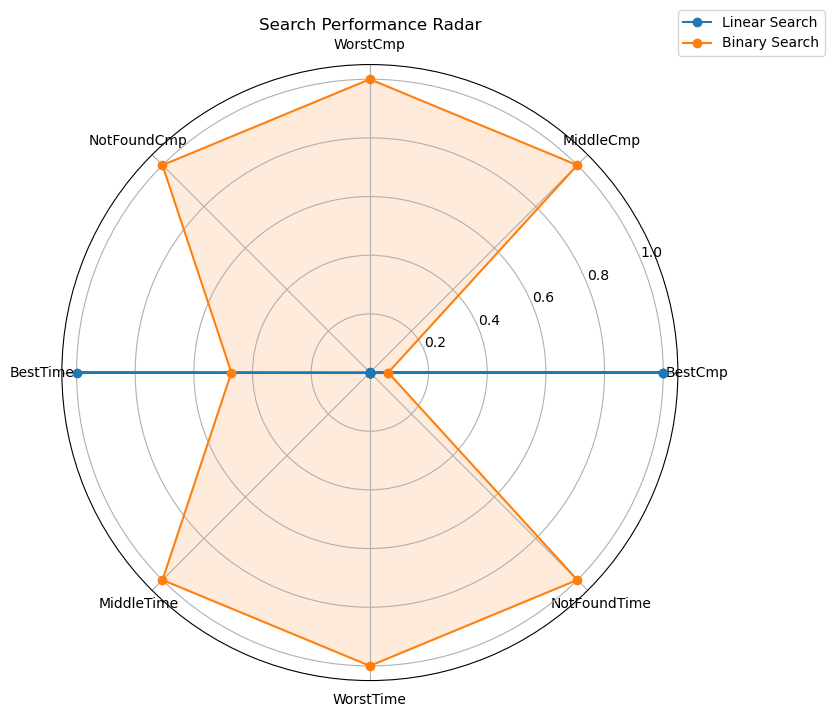
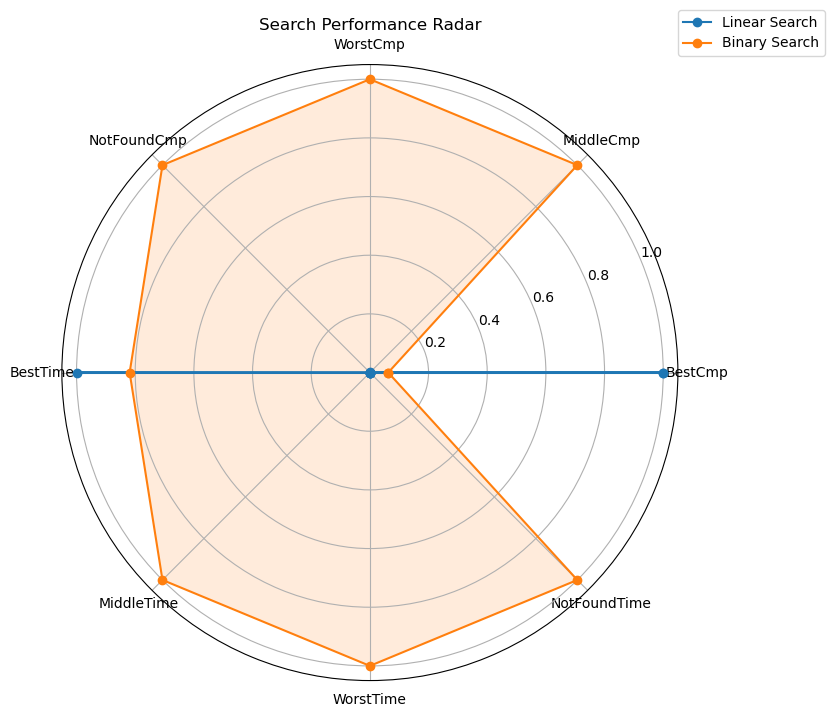
refactor: use timeit for search benchmark

Changed region(s): [[0.1559, 0.2455, 0.2806, 0.7978]]

diff --git a/weeks/week-18/solutions/1114405023/p4_binary_search_perf.py b/weeks/week-18/solutions/1114405023/p4_binary_search_perf.py
@@ -7,21 +7,14 @@
 - 測試資料使用升冪陣列
 - 比較 linear search 與 binary search 的比較次數與搜尋時間
 - 分別測 best、middle、worst、not_found 四種情境
+- 使用 Python 標準庫 timeit 量測搜尋時間
 - 執行主程式時會自動產生 assets/radar.png
-
-設計重點：
-1. 資料先建立好，不把建立資料算進搜尋時間。
-2. 搜尋函式找到目標後立刻 return。
-3. benchmark 只量搜尋函式本身。
-4. binary search 的前提是資料已排序。
 """
 
 import math
 import sys
+import timeit as timeit_module
 from pathlib import Path
-from time import perf_counter
-
-
 
 DATA_SIZE = 100000
 K = 123
@@ -30,14 +23,6 @@ K = 123
 def make_test_data_with_target_at(target_index, size=DATA_SIZE, target=K):
     """
     建立升冪測試資料，並讓 target 出現在指定 index。
-
-    Args:
-        target_index: 目標值要出現的位置。
-        size: 陣列長度。
-        target: 搜尋目標。
-
-    Returns:
-        list[int]: 升冪整數陣列。
     """
     if size < 1:
         return []
@@ -142,11 +127,12 @@ def binary_search_with_count(data, target=K, check_sorted=True):
 
 def average_time(func, repeat=5):
     """
-    計算函式平均執行時間。
+    使用 Python 標準庫 timeit.repeat() 計算平均執行時間。
 
-    Args:
-        func: 不需要參數的函式。
-        repeat: 重複執行次數。
+    注意：
+    - number=1 表示每次 timeit 只執行一次 func。
+    - repeat=5 表示重複量測 5 次。
+    - result 另外執行一次取得結果，不把輸出或資料建立算進搜尋時間。
 
     Returns:
         tuple[object, float]:
@@ -155,17 +141,15 @@ def average_time(func, repeat=5):
     if repeat < 1:
         raise ValueError("repeat must be >= 1")
 
-    result = None
-    total_time = 0.0
+    result = func()
 
-    for _ in range(repeat):
-        start = perf_counter()
-        result = func()
-        end = perf_counter()
+    records = timeit_module.repeat(
+        stmt=func,
+        repeat=repeat,
+        number=1,
+    )
 
-        total_time += end - start
-
-    average = total_time / repeat
+    average = sum(records) / len(records)
     return result, average
 
 
@@ -320,6 +304,7 @@ def build_radar_scores(results):
 def save_radar_chart(results, output_path="assets/radar.png"):
     """
     依照 benchmark 結果產生雷達圖。
+    matplotlib 延後 import，避免測試搜尋函式時因套件問題失敗。
     """
     import matplotlib
 